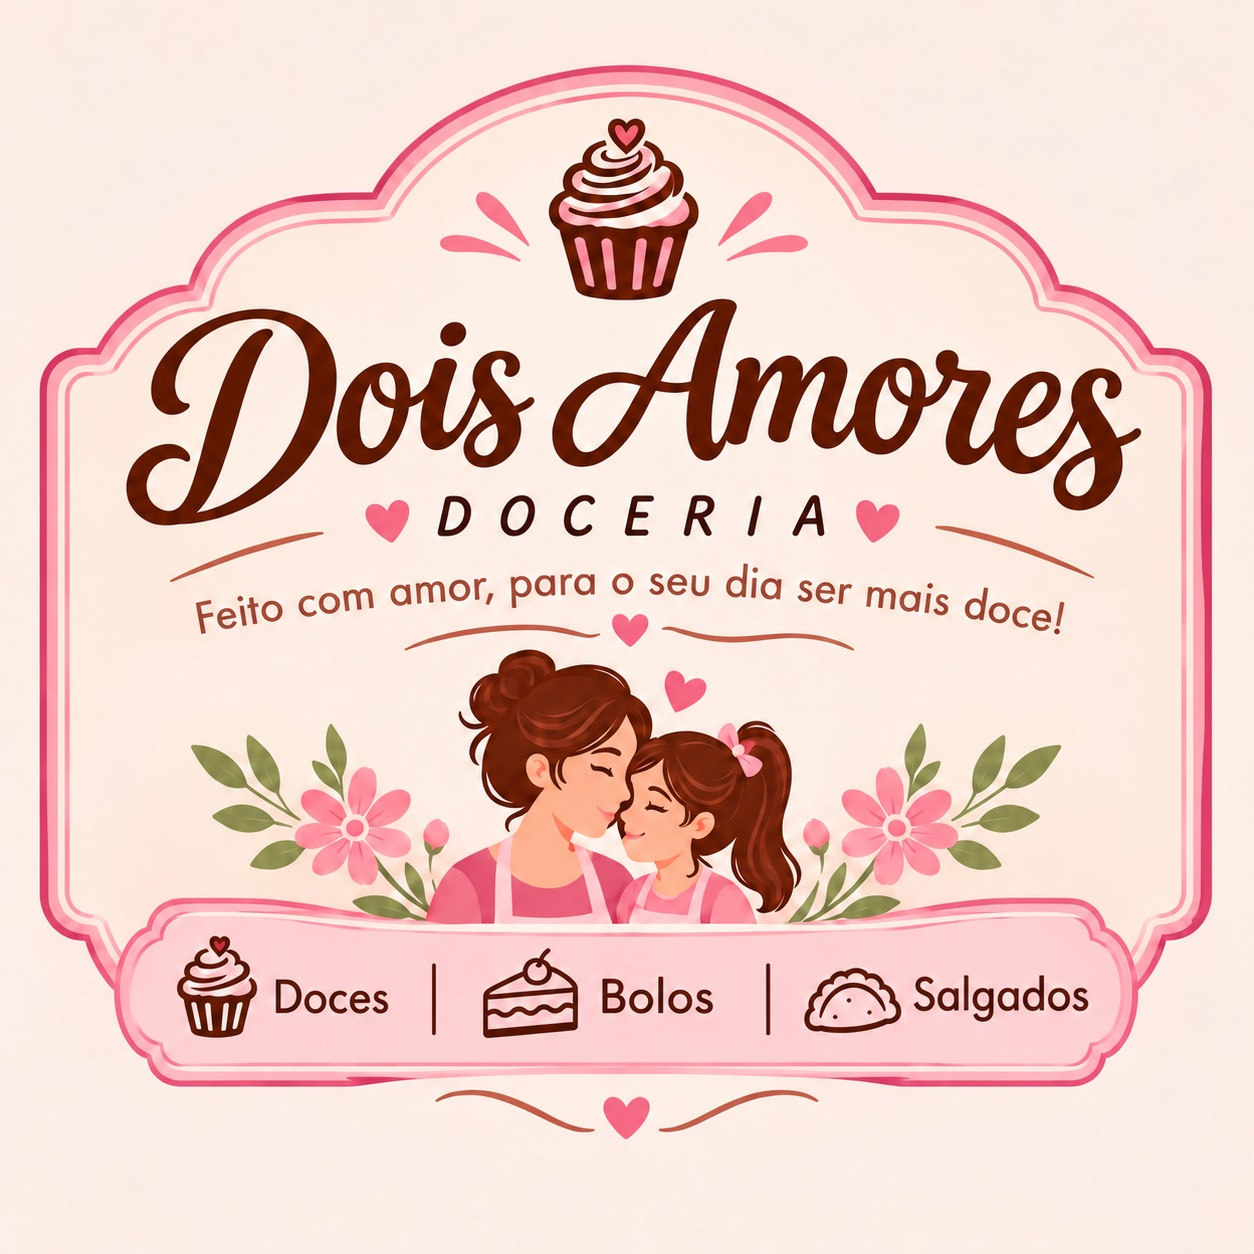
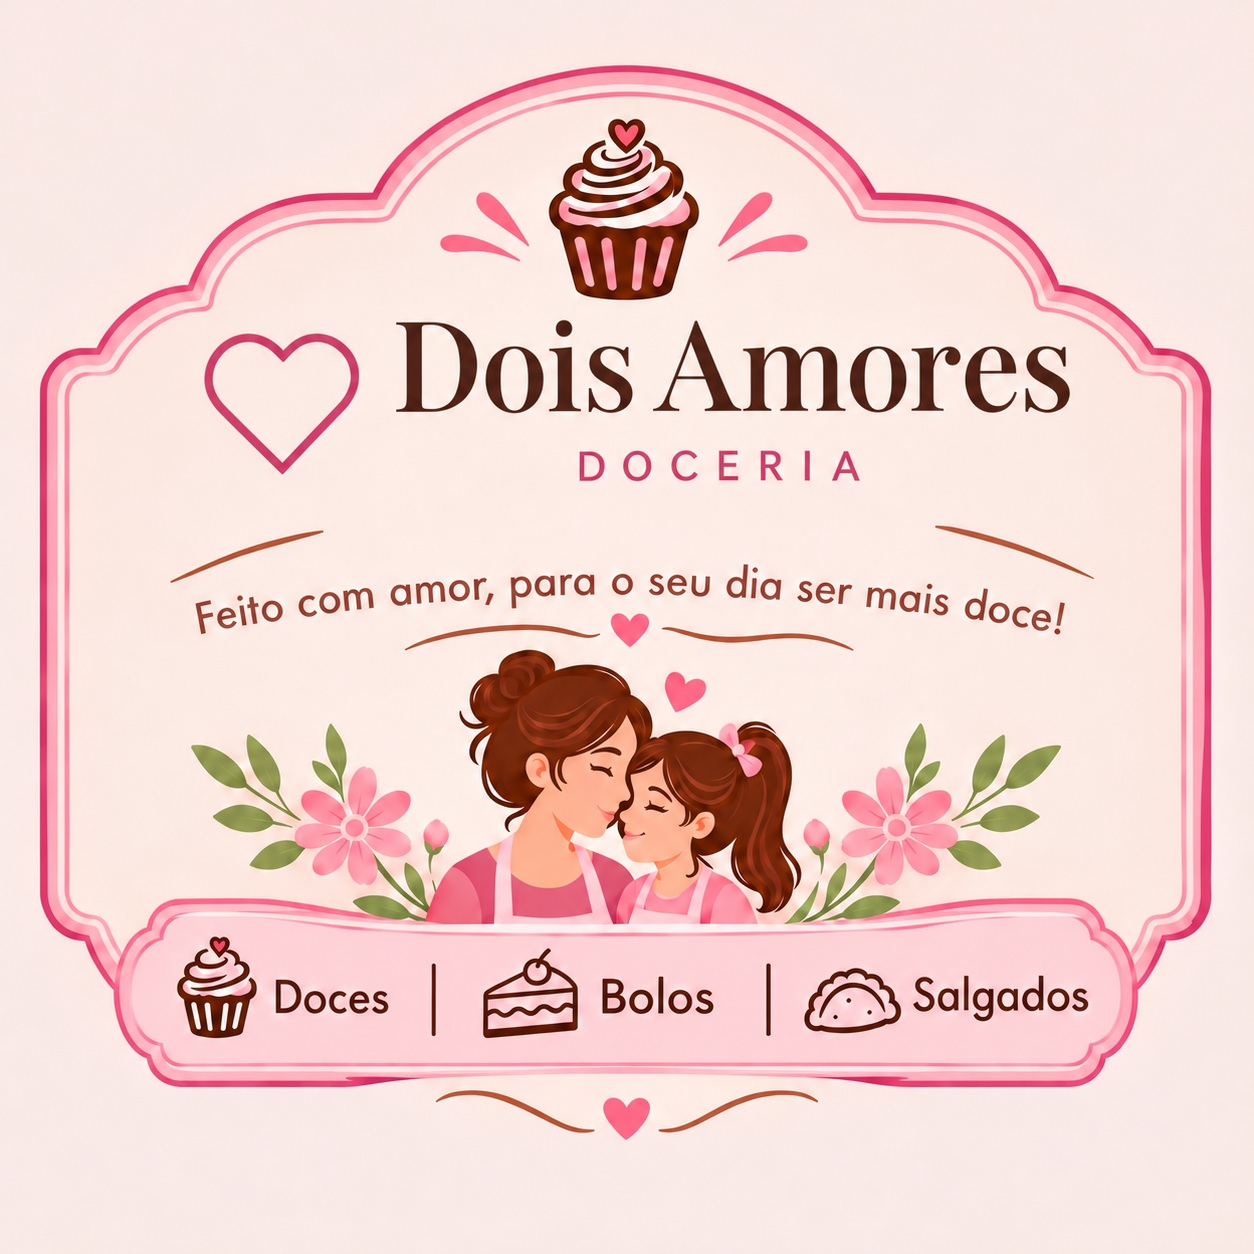
feat: atualizar marcas da loja e da Devlab
Usa a marca ilustrada em WebP na seção de história, mantém o JPEG para as referências existentes e inclui a marca da Devlab no rodapé.

diff --git a/cafe-delicias/public/index.html b/cafe-delicias/public/index.html
@@ -28,11 +28,18 @@
     <div id="example-note" class="example-note" hidden>Você está conhecendo nosso catálogo de exemplo. Produtos e fotos ilustrativos; pedidos serão liberados quando a loja estiver pronta.</div>
     <div class="results-label" id="results-label" aria-live="polite"></div><div id="products" class="product-grid"><p class="loading">Preparando nossas delícias…</p></div>
   </section>
-  <section id="historia" class="story"><div class="container story-inner"><div class="story-portrait"><img src="/marca.jpeg" alt="Marca Dois Amores Doceria, com ilustração de mãe e filha confeiteiras e a faixa Doces, Bolos e Salgados" loading="lazy"><span class="story-label">Nossa receita favorita? <i>Estar juntas.</i></span></div><div class="story-copy"><span class="eyebrow">DE MÃE PARA FILHA. DE NÓS PARA VOCÊ.</span><h2>Duas gerações.<br>O mesmo <em>amor por adoçar.</em></h2><p>Tem receita que a gente aprende no caderno. E tem receita que a gente aprende juntinho, na cozinha, entre uma conversa e outra.</p><p>A Dois Amores Doceria nasce desse encontro: o cuidado de mãe e a criatividade de filha, transformados em doces para deixar seus momentos mais especiais.</p><span class="story-signature">Com carinho, mãe e filha <svg class="icon"><use href="#i-heart"/></svg></span></div></div></section>
+  <section id="historia" class="story"><div class="container story-inner"><div class="story-portrait"><img src="/marca.webp" alt="Marca Dois Amores Doceria, com ilustração de mãe e filha confeiteiras e a faixa Doces, Bolos e Salgados" loading="lazy"><span class="story-label">Nossa receita favorita? <i>Estar juntas.</i></span></div><div class="story-copy"><span class="eyebrow">DE MÃE PARA FILHA. DE NÓS PARA VOCÊ.</span><h2>Duas gerações.<br>O mesmo <em>amor por adoçar.</em></h2><p>Tem receita que a gente aprende no caderno. E tem receita que a gente aprende juntinho, na cozinha, entre uma conversa e outra.</p><p>A Dois Amores Doceria nasce desse encontro: o cuidado de mãe e a criatividade de filha, transformados em doces para deixar seus momentos mais especiais.</p><span class="story-signature">Com carinho, mãe e filha <svg class="icon"><use href="#i-heart"/></svg></span></div></div></section>
   <section class="how-section container" id="como-pedir"><span class="eyebrow">É SIMPLES ASSIM</span><h2>Seu próximo momento doce<br>está a <em>poucos cliques.</em></h2><div class="steps"><article><span class="step-number">01</span><h3>Escolha suas delícias</h3><p>Explore o cardápio e coloque seus favoritos na sacola.</p></article><article><span class="step-number">02</span><h3>Combine como receber</h3><p>Confira a retirada e as opções de entrega disponíveis no checkout.</p></article><article><span class="step-number">03</span><h3>Pronto para se deliciar</h3><p>Pague com segurança e acompanhe a confirmação do seu pedido.</p></article></div></section>
   <section class="sweet-banner"><div class="container"><span>Um café, um doce e uma boa companhia.</span><h2>A vida fica mais bonita<br>com <em>pequenas delícias.</em></h2><a class="button primary" href="#cardapio">Encontre a sua <svg class="icon"><use href="#i-arrow"/></svg></a></div><svg class="banner-flower" aria-hidden="true" focusable="false"><use href="#i-rosette"/></svg></section>
 </main>
-<footer><div class="container footer-main"><div><a class="wordmark footer-brand" href="/"><span class="wordmark-name">Dois Amores</span><small class="wordmark-caption"><span aria-hidden="true">&#9829;</span> Doceria <span aria-hidden="true">&#9829;</span></small></a><p>Feito com amor, para o seu<br>dia ser mais doce.</p></div><div><h3>Uma delícia de loja</h3><a href="#cardapio">Nosso cardápio</a><a href="#historia">Nossa história</a><a href="#como-pedir">Como pedir</a></div><div><h3>Vamos conversar?</h3><p id="contact-info">Informações de contato em breve.</p><a id="whatsapp-link" hidden target="_blank" rel="noopener">Fale pelo WhatsApp ↗</a><p id="hours-info"></p></div><div><h3>Pague do seu jeito</h3><div class="payment-tags"><span>PIX</span><span>BOLETO</span><span>CRÉDITO</span><span>DÉBITO</span></div><p><svg class="icon tiny"><use href="#i-shield"/></svg> Checkout protegido pelo Mercado Pago</p></div></div><div class="container footer-bottom"><span>© <span id="year"></span> Dois Amores Doceria</span><span>Feito com carinho <span class="pink-heart">♡</span></span><a href="/admin">Área da loja ↗</a></div></footer>
+<footer><div class="container footer-main"><div><a class="wordmark footer-brand" href="/"><span class="wordmark-name">Dois Amores</span><small class="wordmark-caption"><span aria-hidden="true">&#9829;</span> Doceria <span aria-hidden="true">&#9829;</span></small></a><p>Feito com amor, para o seu<br>dia ser mais doce.</p></div><div><h3>Uma delícia de loja</h3><a href="#cardapio">Nosso cardápio</a><a href="#historia">Nossa história</a><a href="#como-pedir">Como pedir</a></div><div><h3>Vamos conversar?</h3><p id="contact-info">Informações de contato em breve.</p><a id="whatsapp-link" hidden target="_blank" rel="noopener">Fale pelo WhatsApp ↗</a><p id="hours-info"></p></div><div><h3>Pague do seu jeito</h3><div class="payment-tags"><span>PIX</span><span>BOLETO</span><span>CRÉDITO</span><span>DÉBITO</span></div><p><svg class="icon tiny"><use href="#i-shield"/></svg> Checkout protegido pelo Mercado Pago</p></div></div><div class="container footer-bottom"><span>© <span id="year"></span> Dois Amores Doceria</span><span>Feito com carinho <span class="pink-heart">♡</span></span><a href="/admin">Área da loja ↗</a></div>
+<div class="container footer-bottom footer-developer">
+      <span id="developer-credit">Desenvolvido por:</span>
+      <a href="https://devlabdigital.com.br/" aria-describedby="developer-credit">
+        <img src="/devlab-logo.png" alt="Devlab Digital" width="104" height="52" loading="lazy">
+      </a>
+    </div>
+</footer>
 <dialog id="cart-dialog" class="drawer" aria-labelledby="cart-title"><div class="dialog-header"><div><span class="eyebrow">UM POUQUINHO DE FELICIDADE</span><h2 id="cart-title">Sua sacola <em>de delícias</em></h2></div><button class="icon-button" data-close="cart-dialog" aria-label="Fechar sacola"><svg class="icon"><use href="#i-close"/></svg></button></div><div id="cart-content"></div></dialog>
 <dialog id="product-dialog" class="product-dialog" aria-labelledby="detail-title"><button class="icon-button modal-close" data-close="product-dialog" aria-label="Fechar produto"><svg class="icon"><use href="#i-close"/></svg></button><div id="product-detail"></div></dialog>
 <dialog id="checkout-dialog" class="checkout-dialog" aria-labelledby="checkout-title"><div class="dialog-header"><div><span class="eyebrow">FALTA POUCO PARA A PARTE MAIS DOCE</span><h2 id="checkout-title">Finalize <em>seu pedido</em></h2></div><button class="icon-button" data-close="checkout-dialog" aria-label="Fechar checkout"><svg class="icon"><use href="#i-close"/></svg></button></div><form id="checkout-form"><div class="checkout-columns"><div><h3><span class="number-dot">1</span> Seus dados</h3><label>Nome completo<input name="name" autocomplete="name" minlength="3" maxlength="100" required placeholder="Como podemos chamar você?"></label><div class="form-row"><label>E-mail<input name="email" type="email" autocomplete="email" maxlength="150" required placeholder="voce@email.com"></label><label>Telefone com DDD<input name="phone" type="tel" autocomplete="tel-national" pattern="[0-9 ()+\-]{10,20}" maxlength="20" required placeholder="(85) 99999-9999"></label></div><h3><span class="number-dot">2</span> Como quer receber?</h3><div class="choice-row"><label class="choice"><input name="fulfillment" type="radio" value="pickup" checked> Retirar na loja</label><label class="choice" id="delivery-choice"><input name="fulfillment" type="radio" value="delivery"> Receber em casa</label></div><p class="field-help" id="fulfillment-info"></p><label id="address-field" hidden>Endereço completo<textarea name="address" autocomplete="street-address" minlength="10" maxlength="400" placeholder="Rua, número, bairro, cidade, CEP e complemento"></textarea></label><label>Um recadinho para nós <span class="optional">(opcional)</span><textarea name="notes" maxlength="400" placeholder="Alguma observação sobre seu pedido?"></textarea></label><h3><span class="number-dot">3</span> Pagamento</h3><div class="payment-choices"><label class="choice"><input name="method" value="pix" type="radio" checked><span>◈ <strong>PIX</strong><small>Pagamento instantâneo</small></span></label><label class="choice"><input name="method" value="boleto" type="radio"><span>▥ <strong>Boleto</strong><small>Após compensação</small></span></label><label class="choice"><input name="method" value="credit" type="radio"><span>▰ <strong>Crédito</strong><small>Cartão de crédito</small></span></label><label class="choice"><input name="method" value="debit" type="radio"><span>▰ <strong>Débito</strong><small>Conforme disponibilidade</small></span></label></div><p class="field-help">Você concluirá o pagamento no ambiente do Mercado Pago. A disponibilidade depende da conta, do cartão e do provedor. A preparação começa após a confirmação do pagamento.</p></div><aside class="order-summary"><h3>Seu momento doce</h3><div id="checkout-summary"></div><p class="payment-notice" id="payment-notice"></p><label class="consent"><input type="checkbox" name="consent" required><span>Concordo com o uso dos meus dados para processar este pedido e com as condições de recebimento informadas.</span></label><div id="checkout-error" class="error-message" role="alert" hidden></div><button class="button primary full" id="pay-button" type="submit">Ir para pagamento <svg class="icon"><use href="#i-arrow"/></svg></button><span class="secure-note"><svg class="icon tiny"><use href="#i-shield"/></svg> Seus dados de cartão ficam com o provedor</span></aside></div></form></dialog>

diff --git a/cafe-delicias/public/style.css b/cafe-delicias/public/style.css
@@ -11,3 +11,21 @@
 .hero-spark,.hero-flower,.banner-flower{display:block;width:1em;height:1em;fill:none;stroke:currentColor;stroke-linecap:round;stroke-linejoin:round;pointer-events:none;}
 
 .header-wordmark img{width:7.9em;height:auto;margin:-.15em}
+
+.footer-bottom.footer-developer {
+  align-items: center;
+  justify-content: center;
+  gap: 6px 12px;
+  padding: 10px 0;
+  font-size: 12px;
+}
+.footer-developer a {
+  display: inline-flex;
+  align-items: center;
+  gap: 6px;
+  color: var(--cream);
+  font-size: 14px;
+}
+.footer-developer img {
+  object-fit: contain;
+}
